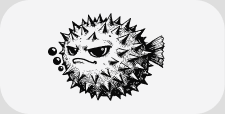
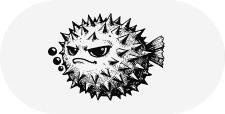
Track guide email events on the Contact, round the email mascot
Guide emails now carry a contact tag (and mailing on follow-ups). Resend
events set the Contact's Guide email status and last click; a click on the
call link moves them to Needs follow-up and pings Slack, and a spam
complaint unsubscribes them. The mascot pill has transparent corners.

diff --git a/api/email-events.ts b/api/email-events.ts
@@ -2,6 +2,7 @@
  * Resend webhook → Airtable Shrink OS, for the automatic results emails.
  *
  * Every results email carries a `deal` tag with its Deal record id (api/forms.ts).
+ * Guide emails carry `contact` instead (see guideEvent).
  * Events update that Deal's "Results email" status and "Last clicked":
  * - email.delivered: Sent → Delivered
  * - email.clicked: Clicked, Last clicked = now
@@ -19,6 +20,15 @@ declare const process: { env: Record<string, string | undefined> };
 
 const BASE = 'appx76yahrfuTcbiD';
 const DEALS = 'tbl5TAoijwcEctsso';
+const CONTACTS = 'tblXiE8Absty3l4HW';
+const MAILING = 'tblCy7RBJ1r86aWvo';
+
+const STATUS: Record<string, string> = {
+  'email.delivered': 'Delivered',
+  'email.clicked': 'Clicked',
+  'email.bounced': 'Bounced',
+  'email.complained': 'Complained',
+};
 const MAX_AGE_S = 5 * 60;
 
 /* status only climbs: a late "delivered" never undoes "clicked" */
@@ -48,7 +58,12 @@ export async function POST(request: Request): Promise<Response> {
   }
 
   const deal = tag(ev, 'deal');
-  if (!deal || !/^rec[A-Za-z0-9]{14}$/.test(deal)) return json({ ok: true, skipped: 'no deal tag' });
+  const contact = tag(ev, 'contact');
+  const isRec = (v: string) => /^rec[A-Za-z0-9]{14}$/.test(v);
+  if (!isRec(deal)) {
+    if (isRec(contact)) return guideEvent(ev, contact, tag(ev, 'mailing'));
+    return json({ ok: true, skipped: 'no deal or contact tag' });
+  }
 
   const status =
     ev.type === 'email.delivered'
@@ -88,6 +103,54 @@ export async function POST(request: Request): Promise<Response> {
   } catch (err) {
     console.error('email event', ev.type, deal, err);
     // 500 so Resend retries
+    return json({ ok: false, error: 'airtable failed' }, 500);
+  }
+}
+
+/**
+ * Guide emails (download + follow-ups) carry `contact` (and `mailing` on follow-ups).
+ * Contact gets "Guide email" (only climbs) and "Guide last clicked". A click on the
+ * call link moves the Contact to Needs follow-up and pings Slack; a spam complaint
+ * unsubscribes the Mailing list record.
+ */
+async function guideEvent(ev: ResendEvent, contact: string, mailing: string): Promise<Response> {
+  const status = STATUS[ev.type || ''] || '';
+  if (!status) return json({ ok: true, skipped: ev.type });
+  try {
+    const current = await airtable(`${CONTACTS}/${contact}`, 'GET');
+    const was = String(current.fields?.['Guide email'] || '');
+    const fields: Record<string, unknown> = {};
+    if ((RANK[status] || 0) > (RANK[was] || 0)) fields['Guide email'] = status;
+    const link = ev.data?.click?.link || '';
+    const who = `${current.fields?.Name || 'Someone'}${ev.data?.to?.[0] ? ` (${ev.data.to[0]})` : ''}`;
+    if (status === 'Clicked') {
+      fields['Guide last clicked'] = ev.data?.click?.timestamp || ev.created_at || new Date().toISOString();
+      if (/\/calls\//.test(link)) {
+        const next = String(current.fields?.['Next action'] || '');
+        if (next !== 'Meeting booked') fields['Next action'] = 'Needs follow-up';
+        const notes = String(current.fields?.Notes || '');
+        const line = `${new Date().toISOString().slice(0, 10)} Clicked the call link in "${ev.data?.subject || 'a guide email'}"`;
+        fields.Notes = notes ? `${notes}\n${line}` : line;
+      }
+    }
+    if (Object.keys(fields).length) await airtable(`${CONTACTS}/${contact}`, 'PATCH', { fields });
+
+    if (status === 'Clicked' && /\/calls\//.test(link)) {
+      await notify('Guide reader clicked the call link', [who, `In "${ev.data?.subject || 'a guide email'}"`], `https://airtable.com/${BASE}/${CONTACTS}/${contact}`);
+    }
+    if (status === 'Complained' && /^rec[A-Za-z0-9]{14}$/.test(mailing)) {
+      await airtable(`${MAILING}/${mailing}`, 'PATCH', { fields: { Status: 'Unsubscribed', 'Synced to provider': false } });
+    }
+    if (status === 'Bounced' || status === 'Complained') {
+      await notify(
+        status === 'Bounced' ? 'Guide email bounced' : 'Guide email marked as spam',
+        [who, status === 'Bounced' ? `The address may be wrong: ${ev.data?.bounce?.message || ev.data?.bounce?.type || 'no reason given'}` : 'They marked it as spam, so they are off the mailing list.'],
+        `https://airtable.com/${BASE}/${CONTACTS}/${contact}`
+      );
+    }
+    return json({ ok: true, contact, status });
+  } catch (err) {
+    console.error('guide email event', ev.type, contact, err);
     return json({ ok: false, error: 'airtable failed' }, 500);
   }
 }

diff --git a/api/forms.ts b/api/forms.ts
@@ -405,7 +405,7 @@ async function handleResource(s: Submission) {
   // email 1: the download. Webflow retries reuse the submission id, so the key stops doubles.
   const mail = guideEmail(guide, d.name);
   const emailed = mail
-    ? await sendResultsEmail(email, mail, `guide-${s.id || `${email}-${date(s)}`}`, 'guide', '')
+    ? await sendResultsEmail(email, mail, `guide-${s.id || `${email}-${date(s)}`}`, 'guide', '', undefined, { contact: contact.id })
     : 'not sent: no email for this guide';
 
   await notify(
@@ -1335,7 +1335,7 @@ function renderEmail(p: EmailParts): CalculatorEmail {
 <table role="presentation" width="100%" cellpadding="0" cellspacing="0">
 <tr><td>
   <table role="presentation" width="100%" cellpadding="0" cellspacing="0"><tr>
-    <td><a href="${withUtm(SITE + '/', p.campaign)}" style="display:inline-block"><img src="${ASSETS}/mascot-pill-3x.png" width="75" height="38" alt="Shrink" style="display:block;border:0"></a></td>
+    <td><a href="${withUtm(SITE + '/', p.campaign)}" style="display:inline-block"><img src="${ASSETS}/mascot-pill-3x.png" width="75" height="38" alt="Shrink" style="display:block;border:0;border-radius:19px"></a></td>
     <td align="right"><span style="display:inline-block;background:${C.smoke};border-radius:4px;padding:4px 8px;${t(14, 500, C.ink)}">${h(p.tag)}</span></td>
   </tr></table>
 </td></tr>
@@ -1562,7 +1562,7 @@ export function followUpEmail(guide: string, f: FollowUp, name: string | undefin
 <table role="presentation" width="100%" cellpadding="0" cellspacing="0">
 <tr><td>
   <table role="presentation" width="100%" cellpadding="0" cellspacing="0"><tr>
-    <td><a href="${withUtm(SITE + '/', campaign)}" style="display:inline-block"><img src="${ASSETS}/mascot-pill-3x.png" width="75" height="38" alt="Shrink" style="display:block;border:0"></a></td>
+    <td><a href="${withUtm(SITE + '/', campaign)}" style="display:inline-block"><img src="${ASSETS}/mascot-pill-3x.png" width="75" height="38" alt="Shrink" style="display:block;border:0;border-radius:19px"></a></td>
     <td align="right"><span style="display:inline-block;background:${C.smoke};border-radius:4px;padding:4px 8px;${t(14, 500, C.ink)}">${h(guide)}</span></td>
   </tr></table>
 </td></tr>
@@ -1678,10 +1678,19 @@ async function runGuideEmails() {
     if (due <= step) continue;
     const email = String(rec.fields.Email || '');
     const mail = followUpEmail(guide, emails[due - 2], rec.fields.Name as string | undefined, await unsubscribeUrl(rec.id));
-    const sent = await sendResultsEmail(email, mail, `followup-${rec.id}-${due}`, 'guide-followup', '', {
-      'List-Unsubscribe': `<${await unsubscribeUrl(rec.id)}>`,
-      'List-Unsubscribe-Post': 'List-Unsubscribe=One-Click',
-    });
+    const contactId = ((rec.fields.Contact as string[]) || [])[0];
+    const sent = await sendResultsEmail(
+      email,
+      mail,
+      `followup-${rec.id}-${due}`,
+      'guide-followup',
+      '',
+      {
+        'List-Unsubscribe': `<${await unsubscribeUrl(rec.id)}>`,
+        'List-Unsubscribe-Post': 'List-Unsubscribe=One-Click',
+      },
+      { mailing: rec.id, ...(contactId ? { contact: contactId } : {}) }
+    );
     const log = String(rec.fields['Sequence log'] || '');
     const fields: Record<string, unknown> = { 'Sequence log': `${log ? `${log}\n` : ''}${today()} email ${due}: ${sent}` };
     if (sent.startsWith('sent')) fields['Sequence step'] = due;
@@ -2172,7 +2181,8 @@ async function sendResultsEmail(
   key: string,
   tool: string,
   deal: string,
-  headers?: Record<string, string>
+  headers?: Record<string, string>,
+  extraTags?: Record<string, string>
 ): Promise<string> {
   const mode = (process.env.RESULTS_EMAIL || 'off').toLowerCase();
   const testers = (process.env.RESULTS_EMAIL_TEST || '').toLowerCase().split(',').map((x) => x.trim()).filter(Boolean);
@@ -2191,7 +2201,11 @@ async function sendResultsEmail(
         html: mail.html,
         text: mail.text,
         // the deal tag comes back on Resend events (api/email-events.ts)
-        tags: [{ name: 'tool', value: tool }, ...(deal ? [{ name: 'deal', value: deal }] : [])],
+        tags: [
+          { name: 'tool', value: tool },
+          ...(deal ? [{ name: 'deal', value: deal }] : []),
+          ...Object.entries(extraTags || {}).map(([name, value]) => ({ name, value })),
+        ],
         ...(headers ? { headers } : {}),
       }),
     });
